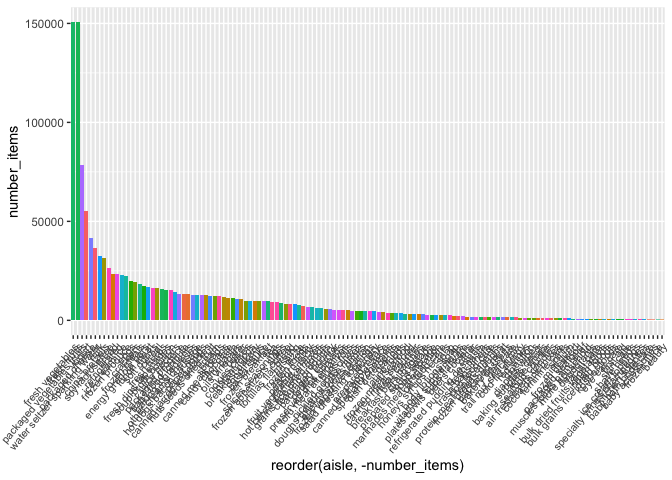
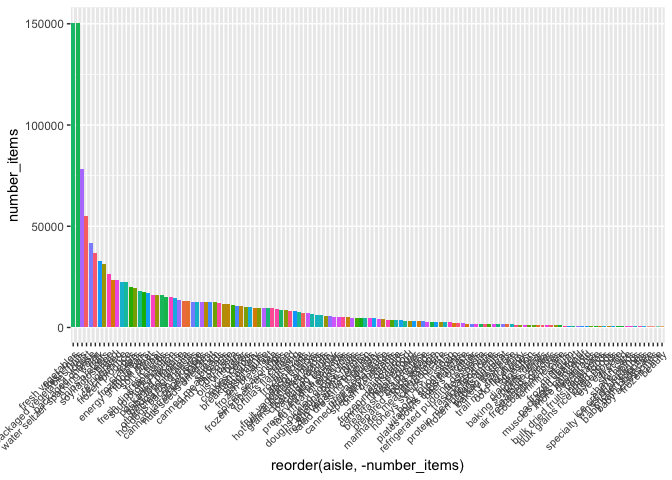
Another commit

Changed region(s): [[0.0, 0.5625, 1.0, 0.9375], [0.0, 0.25, 0.0938, 0.5], [0.125, 0.5, 0.1562, 0.5625]]

diff --git a/p8105_hw3_edm2152.md b/p8105_hw3_edm2152.md
@@ -159,7 +159,7 @@ instacart_data %>%
   arrange(desc(number_items)) %>% 
   ggplot(aes(x = reorder(aisle, -number_items), y = number_items, fill = aisle)) +
   geom_col() +
-  theme(axis.text.x = element_text(angle = 50, hjust = 1, size = 8),
+  theme(axis.text.x = element_text(angle = 45, hjust = 1, size = 8),
         legend.position = "none")
 ```
 
@@ -211,9 +211,109 @@ Loading in NY NOAA Data
 
 ``` r
 ny_noaa_data = ny_noaa %>% 
-  janitor::clean_names()
+  janitor::clean_names() %>% 
+  separate(date, c("year", "month", "day"), sep = "-") %>% 
+  mutate(tmax = as.numeric(tmax) / 10,
+         tmin = as.numeric(tmin) / 10,
+         prcp = prcp /10,
+         month = month.name[as.integer(month)],
+         year = as.numeric(year))
 ```
 
-In the NY NOAA dataset there are 15 variables which include identifiers for aisle, order, product and customer along with a corresponding numerical ID in some cases (aisle and product for example). The instacart dataset also includes 1384617 observations
+In the NY NOAA dataset there are 9 variables which includes a character weather station ID, date of observation, and variables for precipitation observed, snowfall, snow depth, and temperature maximum and minimums. The dataset includes 2595176 observations (one observation for each day starting on January 1st, 1981 and ending on December 31st, 2010).
 
-The goal is to do some exploration of this dataset. To that end, write a short description of the dataset, noting the size and structure of the data, describing some key variables, and indicating the extent to which missing data is an issue. Then, do or answer the following (commenting on the results of each):
+Temp was 10th of degree and precipitation is in tenths of mmm.
+
+``` r
+ny_noaa_data %>% 
+  group_by(snow) %>% 
+  summarise(n = n()) %>% 
+  arrange(desc(n))
+```
+
+    ## # A tibble: 282 x 2
+    ##     snow       n
+    ##    <int>   <int>
+    ##  1     0 2008508
+    ##  2    NA  381221
+    ##  3    25   31022
+    ##  4    13   23095
+    ##  5    51   18274
+    ##  6    76   10173
+    ##  7     8    9962
+    ##  8     5    9748
+    ##  9    38    9197
+    ## 10     3    8790
+    ## # ... with 272 more rows
+
+The most commonly observed values for snowfall are 0 and NA, which makes sense as most days during the year there is no snowfall. This is shown when we calculate the median value for snowfall, which is 0 mm. However, the average amount of snowfall is 4.987 mm (after stripping the NA variables).
+
+The two-panel plot below shows the average maximum temperature in January and July from 1981-2010. The average max temperature in Jaunary ranges from near -5°C to 5°C and centering around 0°C. The average max temperature for July ranges from around 25°C to a little below 30°C, centering around 26°C. The average max temperature has more peaks and valleys in January, suggesting more temperature fluctuation year to year in the winter.
+
+``` r
+ny_noaa_data %>% 
+  filter(month %in% c("January", "July") ) %>% 
+  group_by(year, month) %>% 
+  summarize(mean_max_temp = mean(tmax, na.rm = TRUE)) %>% 
+  ggplot(aes(x = year, y = mean_max_temp)) +
+  geom_line() +
+  facet_grid(~month) +
+  labs(title = "Mean Maximum Temperature (°C) in January and July (1981-2010)",
+       x = "Year",
+       y = "Mean Max Temperature (°C)",
+       caption = "Data from the rnoaa package") +
+  scale_y_continuous(breaks = c(-5, 0, 5, 10, 15, 20, 25, 30), 
+                     labels = c("-5°", "0°", "5°", "10°", "15°", "20°", "25°", "30°")) +
+  theme(axis.text.x = element_text(angle = 45, hjust = 1),
+        plot.title = element_text(hjust = 0.5))
+```
+
+![](p8105_hw3_edm2152_files/figure-markdown_github/unnamed-chunk-3-1.png)
+
+Two-panel plot of:
+
+-   Daily Minimum and Maximum Temperature for the full dataset
+-   Distribution of snowfall for the full dataset
+
+``` r
+temp_plot = 
+  ny_noaa_data %>% 
+  filter(!is.na(tmax),
+         !is.na(tmin)) %>% 
+  ggplot(aes(x = tmin, y = tmax)) +
+  geom_hex() +
+  viridis::scale_fill_viridis() +
+  labs(title = "Hexagon Plot of Daily Minimum and Maximum Temperature (°C) from 1981-2010 in New York",
+       x = "Minimum Temperature (°C)",
+       y = "Maximum Temperature (°C)",
+       caption = "Data from the rnoaa package") +
+  scale_x_continuous(breaks = c(-60, -45, -30, -15, 0, 15, 30, 45, 60), 
+                     labels = c("-60°", "-45°", "-30°", "-15°", "0°", "15°", "30°", "45°", "60°")) +
+  scale_y_continuous(breaks = c(-60, -45, -30, -15, 0, 15, 30, 45, 60), 
+                     labels = c("-60°", "-45°", "-30°", "-15°", "0°", "15°", "30°", "45°", "60°")) +
+  theme(plot.title = element_text(hjust = 0.5),
+        legend.position = "bottom",
+        legend.text = element_text(angle = 45, hjust = 1))
+ 
+
+snowfall_plot = 
+  ny_noaa_data %>% 
+  filter(snow > 0 & snow < 100) %>% 
+  mutate(year_char = as.character(year)) %>% 
+  ggplot(aes(x = snow, y = year_char, fill = year_char)) +
+  ggridges::geom_density_ridges(alpha = 0.75) + 
+  labs(title = "Density Plot of Snowfall (mm) Distribution in New York",
+       x = "Snowfall in mm",
+       y = "Year",
+       caption = "Data from the rnoaa package") + 
+  scale_x_continuous(breaks = c(0, 20, 40, 60, 80, 100), 
+                   labels = c("0", "20", "40", "60", "80", "100")) +
+  theme(plot.title = element_text(hjust = 0.5),
+        legend.position = "none")
+
+temp_plot + snowfall_plot
+```
+
+    ## Picking joint bandwidth of 3.76
+
+![](p8105_hw3_edm2152_files/figure-markdown_github/unnamed-chunk-4-1.png)
